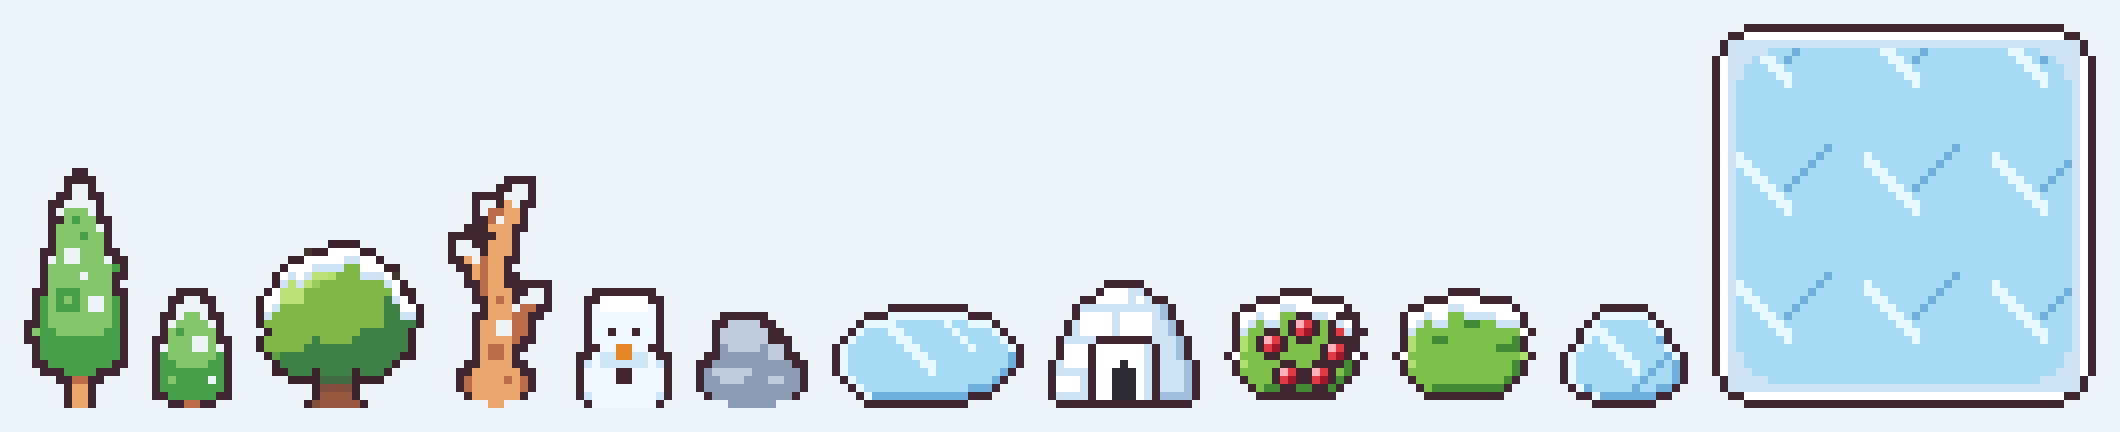
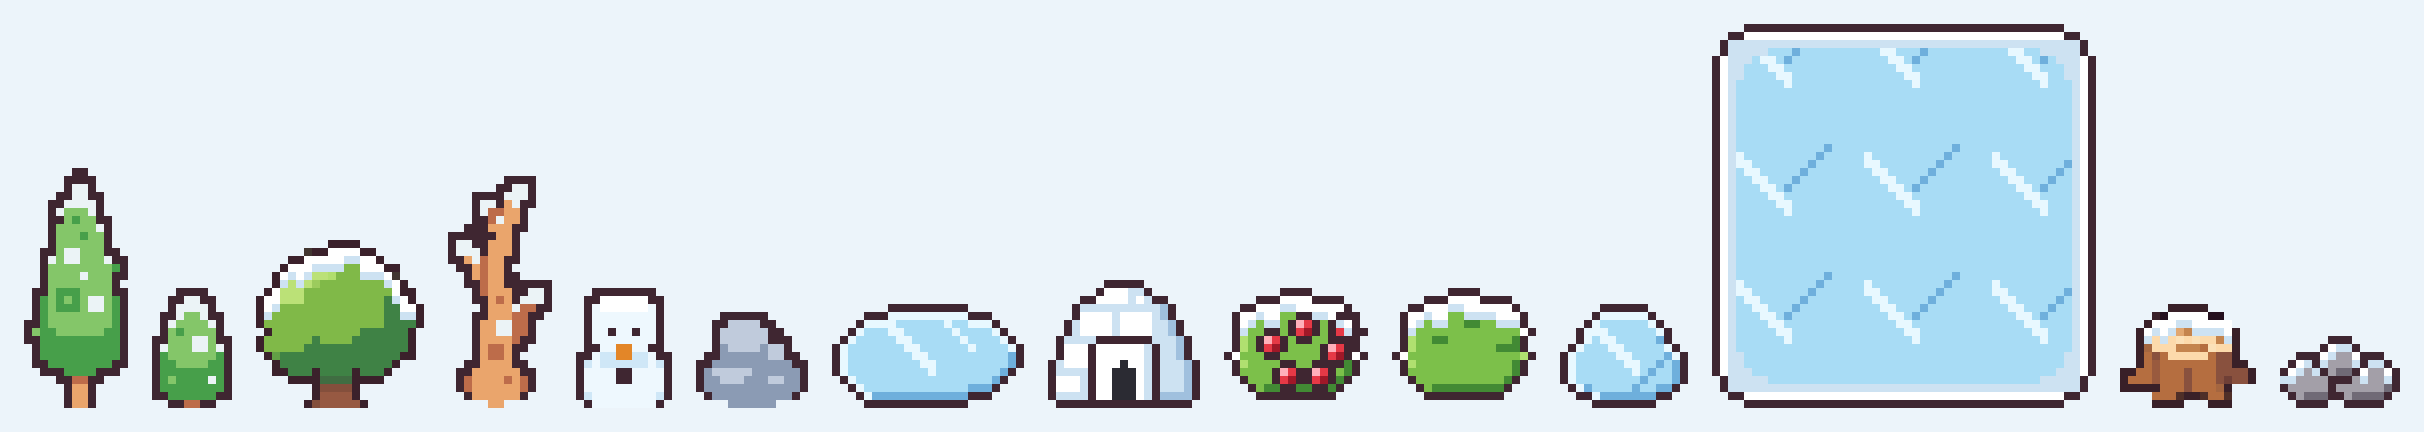
feat(blobz): snowy stump, rubble and dungeon entrance
Same sizes as the meadow versions so they swap in place; generated by
scripts/winter_props.py.

Claude-Session: https://claude.ai/code/session_019PjhQv7Xfjv9fRCZgvquZ1

diff --git a/blobz/scripts/winter_props.py b/blobz/scripts/winter_props.py
@@ -238,8 +238,19 @@ def main():
         'bush-empty-snow.png': snow_cap(os.path.join(ROOT, 'public', 'art', 'gather', 'bush-empty.png'), 0.7, 2),
         'ice-rock.png': ice_rock(),
         'pond-frozen-tiles.png': frozen_pond_tiles(),
+        'stump-snow.png': snow_cap(os.path.join(ROOT, 'public', 'art', 'props', 'stump.png'), 0.6, 2),
+        'rubble-snow.png': snow_cap(os.path.join(ROOT, 'public', 'art', 'gather', 'rubble.png'), 0.8, 1),
     }
     os.makedirs(OUT_DIR, exist_ok=True)
+    # snowy dungeon entrance lives with the dungeon art (same size as dungeon/entrance.png)
+    ent = snow_cap(os.path.join(ROOT, 'public', 'art', 'dungeon', 'entrance.png'), 0.75, 2)
+    epx = ent.load()
+    for y in range(ent.height):  # grass tufts on top become snow mounds
+        for x in range(ent.width):
+            r, g, b, a = epx[x, y]
+            if a and g > r + 30 and g > b:
+                epx[x, y] = SNOW if g > 180 else SNOW_SHADE
+    ent.save(os.path.join(ROOT, 'public', 'art', 'dungeon', 'entrance-snow.png'))
     for name, im in outputs.items():
         im.save(os.path.join(OUT_DIR, name))
         print(name, im.size)

diff --git a/blobz/public/art/props-winter/README.md b/blobz/public/art/props-winter/README.md
@@ -8,7 +8,11 @@ Generated by `scripts/winter_props.py` (review sheet `docs/art-review/winter-she
 | `rock-snow.png` | 16x13 | Snowy stone node |
 | `ice-rock.png` | 16x13 | Ice stone node (mine with the pickaxe) |
 | `bush-berries-snow.png` / `bush-empty-snow.png` | 18x16 | Winter berry bush full / picked (same footprint) |
+| `stump-snow.png` | 17x13 | Snowy stump (same size as `props/stump.png`) |
+| `rubble-snow.png` | 15x10 | Snowy rubble (same size as `gather/rubble.png`) |
 | `snowman.png` | 14x16 | Decor |
 | `ice.png` | 24x13 | Small ice patch decal |
 | `pond-frozen-tiles.png` | 48x48 = 3x3 tiles of 16 | Frozen pond autotile: TL, T, TR / L, C, R / BL, B, BR; C repeats seamlessly |
 | `igloo.png` | 19x17 | Base for the snow map (cottage footprint) |
+
+Snowy dungeon entrance: `art/dungeon/entrance-snow.png` (48x40, same size and anchor as `entrance.png`).

diff --git a/blobz/public/art/dungeon/README.md b/blobz/public/art/dungeon/README.md
@@ -42,7 +42,7 @@ shrinking clockwise from 12 o'clock). A code arc scales cleanly to any button si
 ## Entrance and stairs
 | File | Size | Use |
 |---|---|---|
-| `entrance.png` | 48x40 | Dungeon entrance on the meadow: rock mound, cave mouth, steps going down. Anchor bottom centre |
+| `entrance.png` / `entrance-snow.png` | 48x40 | Dungeon entrance on the meadow: rock mound, cave mouth, steps going down. Anchor bottom centre |
 | `stairs-up.png` | 32x32 | Exit stairs up (2x2 Tiny Dungeon tiles), daylight at the top |
 | `stairs-down.png` | 32x32 | Stairs down to the next floor |
 
